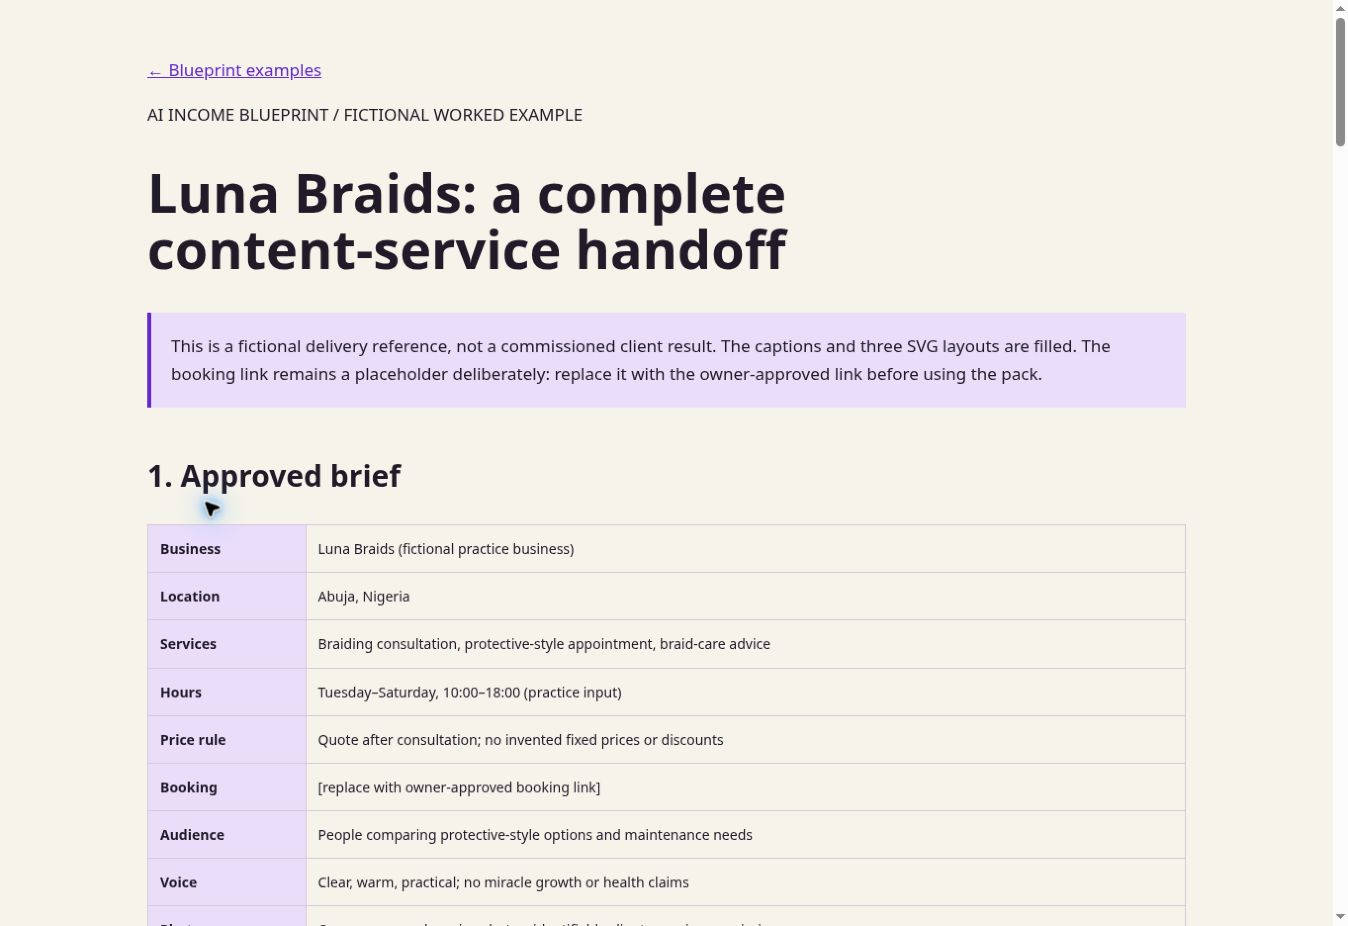
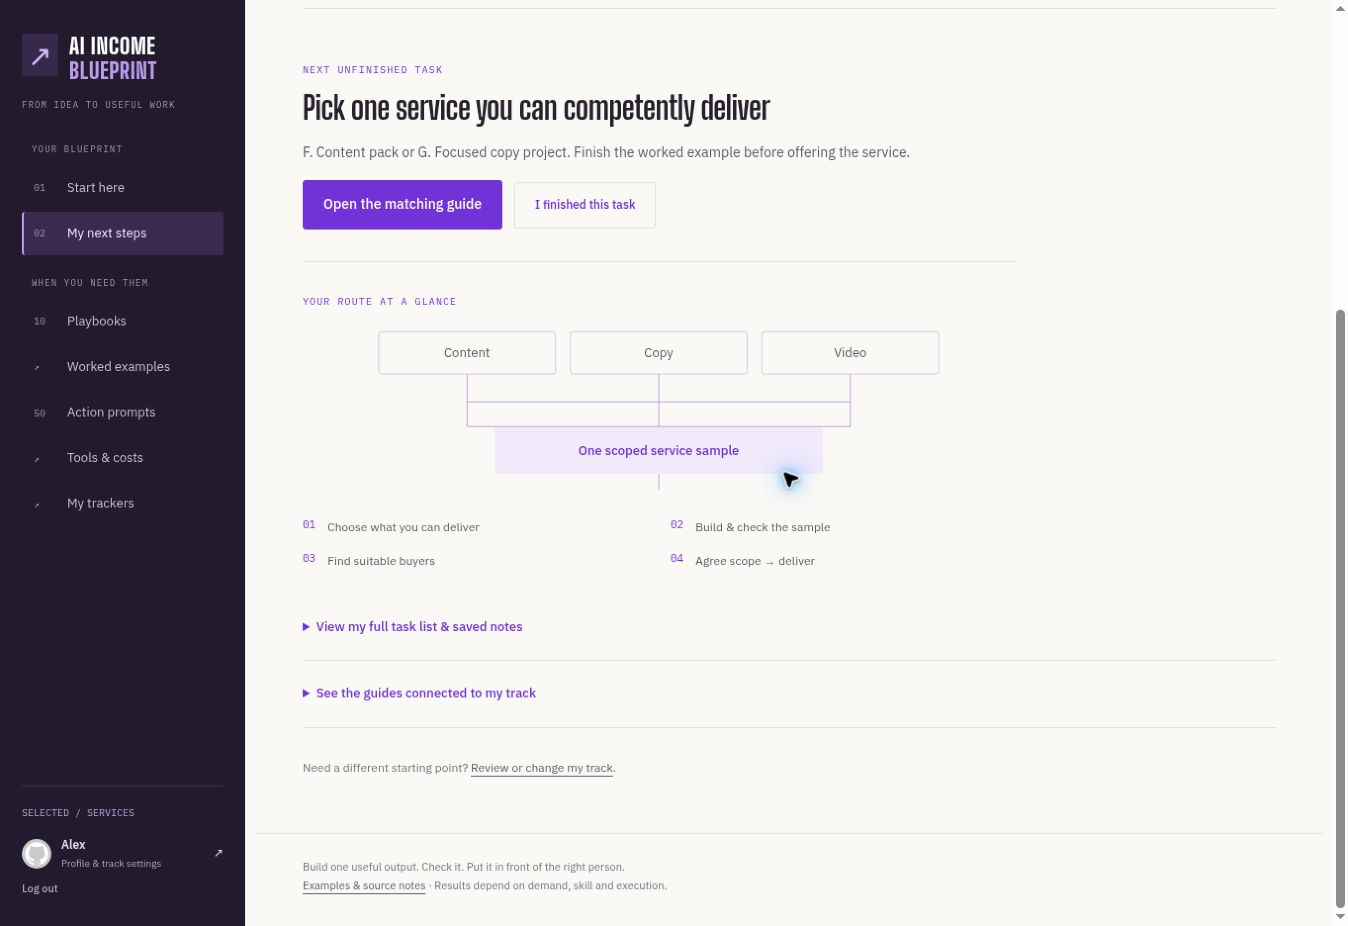
Document verified sidebar, onboarding and gradual route flow

diff --git a/docs/verification.md b/docs/verification.md
@@ -1,18 +1,46 @@
-# Verification of the upgraded Blueprint
+# Sidebar and gradual-flow verification
 
-Checked 6 October 2026 against the deployed app and a signed-out Cloudflare branch preview.
+Verified on 6 October 2026 against the live custom domain after Cloudflare Pages deployment. Product code: `ebfa8a75c2ca6c435d914d1fb2a1a9c914fae777`.
 
-- Seven SQLite-backed backend tests pass: saved selection, invalid/unauthenticated requests, non-destructive default-task refresh, ownership, sheets, auth/CSRF boundaries, progress metadata and arithmetic.
-- 24 HTML pages pass local-link and duplicate-ID checks. Ten playbooks have free/paid routes, complete prompts, outputs/checks, connected next guides and existing downloadable examples.
-- All JavaScript files parse. There are 52 saved playbook steps, exactly 50 action prompts and 300 reference prompts.
-- Live diagnostic returns and saves the service route. Workbench selection survives reload, shows the matching next unfinished task and opens Playbook F.
-- Paid/free tool buttons switch the displayed workflow. Copying reports success.
-- The 50-prompt text download completes. Filtering to F shows five prompts; search further narrows the results.
-- Calculator: hypothetical 1,000 credits, 10 per attempt, three attempts and two shots produces 16 estimated edits. Five attempts produces 10. Inputs are expressly hypothetical.
-- All nine tool brand icons load. The filled salon handoff opens and renders correctly.
-- The public preview works at both `/preview.html` and Cloudflare's canonical `/preview`. A signed-out request for full prompts redirects to login.
-- Production serves the upgraded workbench after `main` was fast-forwarded to the same tested tree as `master`.
+## Delivered interface
 
-![The fictional salon handoff in the deployed app](verification.jpg)
+- A fixed purple desktop sidebar and a responsive Menu drawer, with profile/track settings at the bottom.
+- Start here gives first-time members a dedicated Get my track teaser. Saved members see their existing route and continue to next steps.
+- Six quiz questions appear one at a time, with Back, answer preservation, progress and explicit tie handling.
+- My next steps shows the chosen track, the next unfinished task and a branching route diagram. The full task list/notes and related guides are deliberate disclosures. Trackers have a separate screen.
+- Each of ten playbooks shows one chapter at a time, retains direct step anchors, and offers free and optional paid tool routes. Navigation does not mark work complete.
+- Playbooks and prompts use editorial rows and expandable details instead of a wall of cards.
+- Examples compare a fitness coach, repair business and shop. The product reference is a complete freelancer project workbook. Earlier example URLs lead to updated references for bookmark compatibility.
+- A blank client brief CSV is linked at the intake step. The 50-prompt pack, 300-prompt vault, tool logos, calculator and operating sheets remain available.
+- Asset versions prevent returning browsers from combining the new HTML with cached previous scripts and styles.
 
-Payment transactions, the external Whop listing/marketing homepage and an account-specific withdrawal date were not changed or certified. No real messages or purchases were made. The existing test account was used for UI checks; its selected route is services.
+## Browser checks
+
+Performed using the existing authorized test account, without changing login credentials, payment configuration or account access.
+
+1. Loaded the new sidebar and saved-service landing, then opened the correct next task.
+2. Entered the quiz from profile settings. Confirmed only one question is visible, Next requires an answer, and Back keeps the previous selection.
+3. Completed the service quiz and verified the saved result and corresponding next steps.
+4. Completed a tied quiz, chose the product branch, and verified its product-research first task. Restored the original service track.
+5. Opened Playbook F, switched the spending route, advanced to a single intake chapter and copied its prompt.
+6. Changed a playbook completion flag, reloaded the page, verified persistence, and restored the original flag.
+7. Finished the current task directly from My next steps, verified the next task appeared, and restored the original completion state through the full list.
+8. Switched the content reference between repair and shop contexts. Exactly one reference stayed visible; all three shop SVG layouts loaded.
+9. Filtered the action pack to F and verified five prompts, expanded an entry, and downloaded all 50. Download contained 50 numbered entries and 19,439 bytes before the final intake-wording refinement.
+10. Entered a hypothetical plan cost of 60 with 1,000 credits, 10 credits/attempt, three attempts/shot and two shots/edit. The UI calculated 60 credits/edit, 16 edits and 3.75 subscription cost/estimated edit.
+11. Confirmed all nine tool logo images loaded.
+12. Opened the reusable product reference and entered a practice brief value. The page clearly states that temporary worksheet fields require print/save before closing.
+13. Opened the production public preview at `/preview`, including all three contexts and an independent first task.
+
+Screenshots: `verification.jpg` shows the current task, branching diagram and sidebar. `quiz-verification.jpg` shows one-question onboarding with the sidebar.
+
+## Automated checks
+
+- `python scripts/build.py`: generates the shared shell, samples, ten readers, quiz, libraries, trackers and source page.
+- `python tests/content.py`: 29 HTML pages; unique IDs, all local links/download references, ten complete playbooks, exactly 50 action and 300 reference prompts, sidebar presence, one visible quiz question, one visible reader chapter, and three distinct delivery examples.
+- `node --test tests/backend.test.mjs`: seven tests passed using actual SQLite-backed D1 queries. Covers atomic track selection, invalid/unauthenticated choices, preservation of task IDs/notes/completion/custom rows, task ownership, sheet data, paid-content gating, CSRF, profile progress, diagnostic ties, calculator arithmetic and CSV escaping.
+- Syntax checks for the workbench, shared header and profile JavaScript passed.
+
+## Limits
+
+Browser screenshots and interactions were checked at the available desktop viewport. Mobile breakpoints, drawer semantics, keyboard focus handling and reduced-motion rules are implemented; a physical-phone visual test was not performed in this environment. No real purchase, refund, withdrawal, email provisioning event or financial transaction was performed. Existing server auth and purchase-provisioning flows remain in place. The marketing site and Whop listing are external to this app repository. Revenue outcomes and higher price acceptance need actual buyer evidence.
